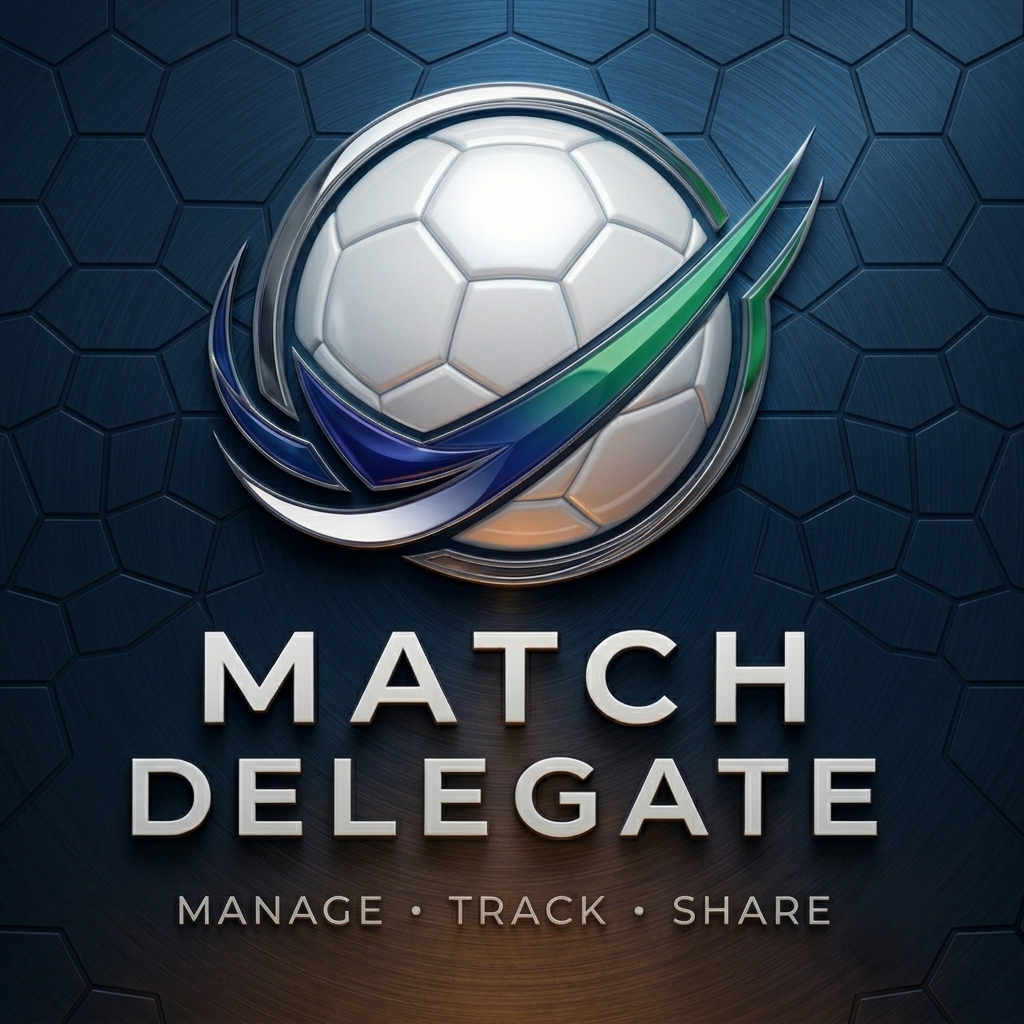
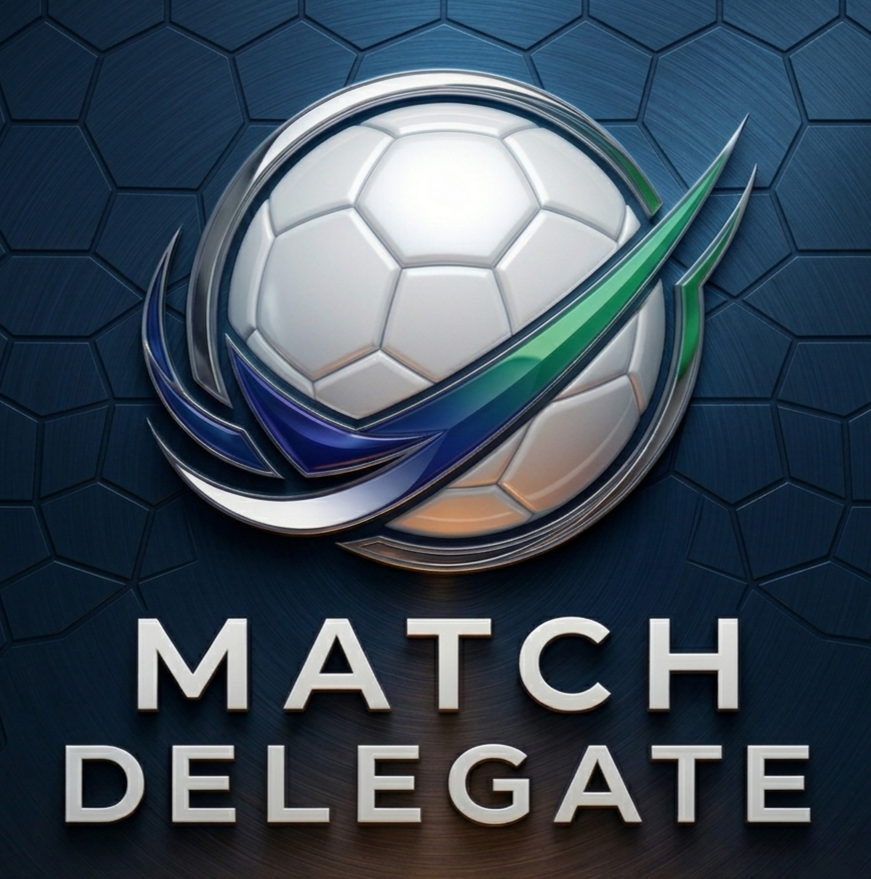
SVG iconen volledig: edit, motm, keeper + alle resterende emoji vervangen
- Nieuw IC.edit (pen), IC.motm (ster), IC.keeper (keepershandschoen)
- Alle potlood-emoji vervangen door icI(IC.edit)
- Beker-emoji in UI vervangen door icI(IC.trophy)
- Bal-emoji in lege staten vervangen door IC.ball
- Klembord-emoji vervangen door IC.clipboard
- Staafgrafiek-emoji vervangen door IC.chart
- Ster-emoji in UI vervangen door icI(IC.motm)
- Handschoen-emoji vervangen door icI(IC.keeper)
- MD.png (logo) bijgewerkt

diff --git a/index.html b/index.html
@@ -413,6 +413,9 @@ const IC = {
   balance: _svg('<path d="M12 4v17M4 6h16"/><path d="M6 6l-3 7h6l-3-7"/><path d="M18 6l-3 7h6l-3-7"/>'),
   compass: _svg('<circle cx="12" cy="12" r="9"/><path d="M12 4l3 8H9z" fill="currentColor" stroke="none"/><path d="M12 20l-3-8h6z" fill="currentColor" stroke="none" opacity=".4"/>'),
   clipboard: _svg('<path d="M9 2h6l1 3H8l1-3zM4 5h16a1 1 0 0 1 1 1v15a1 1 0 0 1-1 1H4a1 1 0 0 1-1-1V6a1 1 0 0 1 1-1z"/><path d="M8 11h8M8 15h5"/>'),
+  edit: _svg('<path d="M4 20l4-1L18.5 8.5a2.12 2.12 0 0 0-3-3L4 16z"/><path d="M15.5 5.5l3 3"/>'),
+  motm: _svg('<polygon points="12,2.5 14.9,9 22,9 16.4,13.5 18.7,20.5 12,16.5 5.3,20.5 7.6,13.5 2,9 9.1,9" fill="currentColor" stroke="none" opacity=".85"/>'),
+  keeper: _svg('<path d="M8 20.5V9a2 2 0 0 1 4 0v5"/><path d="M12 12.5a2 2 0 0 1 4 0v4"/><path d="M16 15.5a2 2 0 0 1 4 0v2a4.5 4.5 0 0 1-4.5 4.5H8.5A4.5 4.5 0 0 1 4 17.5v-2"/><path d="M4 15.5a2 2 0 0 1 4 0"/>'),
 };
 const icI = ic => `<span class="ic-i">${ic}</span>`;
 function tName(m) { return (m && m.teamName) || 'Sparta'; }
@@ -955,7 +958,7 @@ function updateCloudChip() {
   if (!cloudReady || !activeTeamId) { el.style.display = 'none'; return; }
   el.style.display = '';
   const badge = (isOwner && pendingAdminCount > 0) ? `<span class="req-badge">${pendingAdminCount}</span>` : '';
-  el.innerHTML = (isAdmin ? '✏️ Beheer' : '👁 Kijken') + badge;
+  el.innerHTML = (isAdmin ? `${icI(IC.edit)} Beheer` : '👁 Kijken') + badge;
   el.className = 'cloud-chip ' + (isAdmin ? 'admin' : 'viewer');
 }
 function cloudLoginModal() {
@@ -1107,7 +1110,7 @@ async function showMembersModal() {
       const naam = mi.name || '(naam nog niet gekend)';
       const email = mi.email || '(e-mail nog niet gekend)';
       const badge = role === 'admin'
-        ? '<span class="ts-role admin">✏️ Beheerder</span>'
+        ? `<span class="ts-role admin">${icI(IC.edit)} Beheerder</span>`
         : '<span class="ts-role viewer">👁 Kijker</span>';
       return `<div class="ts-team-row" style="cursor:default">
         <span class="ts-name"><b>${esc(naam)}</b><br><small style="color:var(--txt2)">${esc(email)}</small></span>
@@ -1217,7 +1220,7 @@ function renderTeamSelect() {
         const role = userTeams[id];
         return `<div class="ts-team-row" onclick="selectTeam('${id}')">
           <span class="ts-name" id="tsname-${id}">Ploeg laden...</span>
-          <span class="ts-role ${role}">${role === 'admin' ? '✏️ Beheerder' : '👁 Kijker'}</span>
+          <span class="ts-role ${role}">${role === 'admin' ? `${icI(IC.edit)} Beheerder` : '👁 Kijker'}</span>
         </div>`;
       }).join('')
     : `<div class="empty"><div class="ei">👥</div><p>Je hebt nog geen ploegen.<br>Maak er een aan of voer een uitnodigingscode in.</p></div>`;
@@ -1416,7 +1419,7 @@ function renderEventLog(m) {
     const score = g.cum ? `<span class="qgroup-score"><span class="us">${g.cum.us}</span>–${g.cum.them}</span>` : '';
     const elog_ro = !!(m.fromCloud && !isAdmin);
     const items = g.list.length
-      ? g.list.map(e => `<li><span class="emin">${gameMin(e.gameTimeMs)}'</span><span class="etxt">${evtLabel(e, m)}</span>${elog_ro ? '' : `<button class="evt-edit no-print" onclick="modalEditEvent('${e.id}')" title="Bewerken">✏️</button><button class="evt-del no-print" onclick="confirmDeleteEvent('${e.id}')" title="Verwijderen">×</button>`}</li>`).join('')
+      ? g.list.map(e => `<li><span class="emin">${gameMin(e.gameTimeMs)}'</span><span class="etxt">${evtLabel(e, m)}</span>${elog_ro ? '' : `<button class="evt-edit no-print" onclick="modalEditEvent('${e.id}')" title="Bewerken">${icI(IC.edit)}</button><button class="evt-del no-print" onclick="confirmDeleteEvent('${e.id}')" title="Verwijderen">×</button>`}</li>`).join('')
       : '<li class="qgroup-empty">Geen events in dit deel.</li>';
     return `<div class="qgroup"><div class="qgroup-head"><span>${head}</span>${score}</div><ul class="elog">${items}</ul></div>`;
   }).join('');
@@ -1631,7 +1634,7 @@ async function loadHome() {
         const team = teamById(t.teamId);
         return `<div class="match-item" onclick="goTournament('${t.id}')" style="border-left-color:var(--org)">
           <div class="mi-info">
-            <div class="mi-opp">🏆 ${esc(t.name)}</div>
+            <div class="mi-opp">${icI(IC.trophy)} ${esc(t.name)}</div>
             <div class="mi-date">${team ? '<b>'+esc(team.name)+'</b> · ' : ''}${t.date ? fmtDate(new Date(t.date+'T00:00:00').getTime()) : ''}${t.location ? ' · '+esc(t.location) : ''}</div>
             <span class="badge badge-plan">${icI(IC.calendar)} Gepland</span><span class="badge badge-type">Tornooi</span>
           </div>
@@ -1722,7 +1725,7 @@ async function loadStats() {
       <option value="all" ${seasonFilter==='all'?'selected':''}>Alle seizoenen</option>
       ${seasons.map(s => `<option value="${s}" ${seasonFilter===s?'selected':''}>Seizoen ${s}</option>`).join('')}
     </select></div>` : ''}`;
-  if (!list.length) { el.innerHTML = filterBar + `<div class="empty"><div class="ei">📊</div><p>Nog geen wedstrijden.</p></div>`; return; }
+  if (!list.length) { el.innerHTML = filterBar + `<div class="empty"><div class="ei">${IC.chart}</div><p>Nog geen wedstrijden.</p></div>`; return; }
   let w = 0, d = 0, l = 0, gf = 0, ga = 0, cleanSheets = 0;
   const pl = {};
   const getp = (name, num) => { const k = (name || 'Speler').trim(); return pl[k] || (pl[k] = { name: k, number: num || '', goals: 0, assists: 0, ms: 0, yc: 0, rc: 0, mp: 0, cs: 0, squad: 0, absent: 0, lines: {} }); };
@@ -2208,7 +2211,7 @@ function renderTeamEdit() {
     <div class="card">${editingTeam.players.length ? colHead : ''}<div id="t-rows">${rows || '<p style="color:var(--txt2);font-size:13px;text-align:center;padding:6px 0">Nog geen spelers.</p>'}</div>
       <div style="display:grid;grid-template-columns:1fr 1fr;gap:8px;margin-top:8px">
         <button class="btn btn-pale btn-sm" onclick="teamAddPlayer()">+ Speler</button>
-        <button class="btn btn-pale btn-sm" onclick="teamPasteModal()">📋 Lijst plakken</button>
+        <button class="btn btn-pale btn-sm" onclick="teamPasteModal()">${icI(IC.clipboard)} Lijst plakken</button>
       </div></div>
     <button class="btn btn-green" onclick="saveTeamEdit()">✓ ${cloudReady ? 'Spelers opslaan' : 'Ploeg opslaan'}</button>
     ${(editingTeam.isNew || cloudReady) ? '' : `<div class="danger"><button class="btn btn-red" onclick="deleteTeamConfirm()">🗑 Ploeg verwijderen</button></div>`}
@@ -2224,7 +2227,7 @@ function teamSortPlayers(by) {
   render();
 }
 function teamPasteModal() {
-  openModal(`<h3>📋 Spelerslijst plakken</h3>
+  openModal(`<h3>${icI(IC.clipboard)} Spelerslijst plakken</h3>
     <p style="color:var(--txt2);font-size:13px;margin-bottom:10px">Eén speler per regel. Een rugnummer vooraan mag (bv. "10 Jan Peeters"). De rest wordt voornaam + familienaam.</p>
     <div class="fg"><textarea id="paste-area" rows="8" placeholder="1 Tom Janssens\n7 Lars De Smet\nNoah Maes"></textarea></div>
     <button class="btn btn-green" onclick="teamPasteApply()">＋ Toevoegen</button>
@@ -2301,8 +2304,8 @@ function renderTournament() {
   const t = currentTournament;
   if (!t) return '<div class="content"><p>Niet gevonden.</p></div>';
   setTimeout(loadTournamentDetail, 0);
-  const editBtn = canManage() ? `<button class="hdr-btn" onclick="editTournament('${t.id}')">✏️</button>` : '';
-  return `<div class="hdr"><button class="back" onclick="go('tournaments')">‹</button><h1>🏆 ${esc(t.name)}</h1>${editBtn}</div>
+  const editBtn = canManage() ? `<button class="hdr-btn" onclick="editTournament('${t.id}')">${icI(IC.edit)}</button>` : '';
+  return `<div class="hdr"><button class="back" onclick="go('tournaments')">‹</button><h1>${icI(IC.trophy)} ${esc(t.name)}</h1>${editBtn}</div>
   <div class="content" id="trn-content"><div class="empty"><div class="ei">⏳</div><p>Laden...</p></div></div>`;
 }
 
@@ -2342,7 +2345,7 @@ async function loadTournamentDetail() {
   const newMatchBtn = (canManage() && !noSquad) ? `<button class="btn btn-green" style="margin-bottom:12px" onclick="addTournamentMatch('${t.id}')">${icI(IC.ball)} + Wedstrijd toevoegen</button>` : '';
   const matchList = matches.length
     ? matches.map(matchItemHtml).join('')
-    : `<div class="empty" style="padding:20px 0"><div class="ei" style="font-size:36px">⚽</div><p>Nog geen wedstrijden.${canManage() && !noSquad ? ' Voeg er een toe!' : ''}</p></div>`;
+    : `<div class="empty" style="padding:20px 0"><div class="ei" style="font-size:36px">${IC.ball}</div><p>Nog geen wedstrijden.${canManage() && !noSquad ? ' Voeg er een toe!' : ''}</p></div>`;
   el.innerHTML = `
     <div class="card">${infoRows}${squadRow}</div>
     ${squadWarning}
@@ -2542,7 +2545,7 @@ function addTournamentMatch(trnId) {
   if (!totalSquad) {
     openModal(`<h3>Selectie ontbreekt</h3>
       <p style="text-align:center;color:var(--txt2);margin-bottom:16px">Geef eerst een selectie in voor dit tornooi voor je wedstrijden toevoegt.</p>
-      <button class="btn btn-green" onclick="closeModal();editTournament('${trnId}')">✏️ Selectie ingeven</button>
+      <button class="btn btn-green" onclick="closeModal();editTournament('${trnId}')">${icI(IC.edit)} Selectie ingeven</button>
       <button class="btn btn-gray" style="margin-top:8px" onclick="closeModal()">Annuleren</button>`);
     return;
   }
@@ -2990,7 +2993,7 @@ function renderPrep() {
   <div class="content">
     ${ro ? '<div class="viewer-banner">👁 Je kijkt mee — deze wedstrijd is gepland</div>' : `${(!m.players || !m.players.length) ? '<div class="viewer-banner" style="background:var(--org-pale,#fff3e0);color:#b45309;border-color:#fbbf24">⚠ Selectie nog niet ingegeven — vul de spelers in voor je de wedstrijd start.</div>' : ''}<button class="btn btn-green" onclick="startPlanned()">▶ Wedstrijd starten</button>
     <div class="wiz-nav" style="margin-top:8px">
-      <button class="btn btn-pale" onclick="editMatchWizard(match)">✏️ Bewerken</button>
+      <button class="btn btn-pale" onclick="editMatchWizard(match)">${icI(IC.edit)} Bewerken</button>
       <button class="btn btn-orgpale" onclick="${(!m.players || !m.players.length) ? 'startSelectieWizard()' : 'modalEditPlayers()'}">👤 Selectie &amp; opstelling</button>
     </div>
     <button class="btn btn-gray" style="margin-top:8px" onclick="modalQuickResult()">⚡ Snel resultaat invoeren</button>`}
@@ -3096,7 +3099,7 @@ function modalEditPlayers() {
     </div>
     <input type="text" value="${esc(p.note||'')}" placeholder="Notitie over deze speler (optioneel)" onchange="match.players[${i}].note=this.value" style="width:100%;padding:9px;border:2px solid var(--bdr);border-radius:8px;font-size:14px;margin-bottom:6px">
     <div style="margin:0 0 14px"><span class="start-chip ${match.captainId===p.id?'on':''}" onclick="setCaptain('${p.id}')">© Kapitein</span></div>`).join('');
-  openModal(`<h3>✏️ Spelers bewerken</h3>
+  openModal(`<h3>${icI(IC.edit)} Spelers bewerken</h3>
     <div id="edit-rows">${rows}</div>
     <button class="btn btn-pale" onclick="addPlayerToMatch()" style="margin-top:6px">+ Speler toevoegen</button>
     <button class="btn btn-green" style="margin-top:12px" onclick="saveEditPlayers()">✓ Opslaan</button>
@@ -3191,7 +3194,7 @@ function renderLive() {
         <div class="evtbtn ${dis}" onclick="modalExtra()"><span class="ei">${IC.more}</span><span class="el">Meer</span></div>
       </div>`}
       ${(canEvent && hasUndo()) ? `<button class="btn btn-orgpale" onclick="undoLast()">↩ Laatste actie ongedaan maken</button>` : ''}
-      ${isDone ? `<button class="btn btn-pale" onclick="go('detail','${match.id}')">📊 Wedstrijd bekijken</button>` : ''}`;
+      ${isDone ? `<button class="btn btn-pale" onclick="go('detail','${match.id}')">${icI(IC.chart)} Wedstrijd bekijken</button>` : ''}`;
   } else if (tab === 'opstelling') {
     const on = playersOnField(match), off = playersOnBench(match), mins = calcMinutes(match);
     tabContent = `
@@ -3205,8 +3208,8 @@ function renderLive() {
   } else {
     tabContent = miniScore + (match.events.length
       ? `<div class="card">${renderEventLog(match)}</div>`
-      : `<div class="empty"><div class="ei">📋</div><p>Nog geen events.</p></div>`)
-      + (ro ? '' : `<button class="btn btn-pale" style="margin-top:4px" onclick="modalEditMatchInfo()">📋 Wedstrijdinfo bewerken</button>`);
+      : `<div class="empty"><div class="ei">${IC.clipboard}</div><p>Nog geen events.</p></div>`)
+      + (ro ? '' : `<button class="btn btn-pale" style="margin-top:4px" onclick="modalEditMatchInfo()">${icI(IC.clipboard)} Wedstrijdinfo bewerken</button>`);
   }
 
   return `
@@ -3226,7 +3229,7 @@ function playerRowHtml(p, minsData, isOff=false, totalMs=0) {
   const ms = minsData ? minsData.ms : 0;
   const m = Math.floor(ms / 60000);
   const cap = (match && match.captainId === p.id) ? ' <b style="color:var(--org)">©</b>' : '';
-  const motm = (match && match.motmId === p.id) ? ' ⭐' : '';
+  const motm = (match && match.motmId === p.id) ? ` ${icI(IC.motm)}` : '';
   const pct = totalMs > 0 ? Math.round(ms / totalMs * 100) : null;
   const low = pct !== null && pct < 50;
   const bar = pct !== null ? `<div class="fairbar ${low?'low':''}" style="max-width:120px"><span style="width:${Math.min(100,pct)}%"></span></div>` : '';
@@ -3344,7 +3347,7 @@ function modalEditMatchInfo() {
       <div class="fg"><label>Duur per deel</label>
         <select id="ei-qd">${(DURATIONS[match.periodKey]||[15]).map(v=>`<option value="${v}" ${v===match.quarterDuration?'selected':''}>${v} min</option>`).join('')}</select></div>
     </div>` : '';
-  openModal(`<h3>✏️ Wedstrijdinfo bewerken</h3>
+  openModal(`<h3>${icI(IC.edit)} Wedstrijdinfo bewerken</h3>
     <input type="hidden" id="ei-loc" value="${esc(match.location||'')}">
     <div class="fg"><label>Tegenstander</label><input id="ei-opp" type="text" value="${esc(match.opponent||'')}" placeholder="Naam ploeg" autocomplete="off"></div>
     <div style="display:grid;grid-template-columns:1fr 1fr;gap:10px">
@@ -3407,7 +3410,7 @@ async function saveNotes() {
   await dbSave(match); closeModal(); render();
 }
 function modalMotm() {
-  openModal(`<h3>⭐ Man van de match</h3>
+  openModal(`<h3>${icI(IC.motm)} Man van de match</h3>
     ${match.players.map(p => `<div class="mopt ${match.motmId===p.id?'sel':''}" onclick="setMotm('${p.id}')"><div class="mopt-num">${p.number||'?'}</div>${esc(p.name)}</div>`).join('')}
     <div class="mopt mopt-skip" onclick="setMotm(null)">Geen / wissen</div>
     <button class="btn btn-gray" style="margin-top:12px" onclick="closeModal()">Sluiten</button>`);
@@ -3492,7 +3495,7 @@ function modalEditEvent(id) {
   else if (t === 'injury') fields = `<div class="fg"><label>Speler</label><select id="ee-player">${opts(e.playerId)}</select></div><div class="fg"><label>Type</label><select id="ee-itype"><option value="kramp" ${e.injuryType === 'kramp' ? 'selected' : ''}>Kramp</option><option value="licht" ${e.injuryType === 'licht' ? 'selected' : ''}>Licht</option><option value="ernstig" ${e.injuryType === 'ernstig' ? 'selected' : ''}>Ernstig</option></select></div><div class="chkrow"><input type="checkbox" id="ee-leaves" ${e.leavesField ? 'checked' : ''}> Verlaat het veld</div>`;
   else if (t === 'shot_us' || t === 'shot_them') fields = `<div class="chkrow"><input type="checkbox" id="ee-ontarget" ${e.onTarget ? 'checked' : ''}> Op doel</div>`;
   else if (t === 'disallowed_us' || t === 'disallowed_them') fields = `<div class="fg"><label>Reden</label><input id="ee-reason" type="text" value="${esc(e.reason || '')}" placeholder="bv. buitenspel"></div>`;
-  openModal(`<h3>✏️ Event bewerken</h3>
+  openModal(`<h3>${icI(IC.edit)} Event bewerken</h3>
     <p style="text-align:center;color:var(--txt2);font-size:13px;margin-bottom:12px">${evtLabel(e, match)}</p>
     <div class="fg"><label>Minuut</label><input id="ee-min" type="number" value="${minute}" inputmode="numeric"></div>
     ${fields}
@@ -3832,12 +3835,12 @@ function renderDetail() {
     <div class="sec">Wedstrijdinfo</div>
     <div class="card">
       ${[['Formatie',match.formation],['Trainer',match.trainer],['Ploegverantwoordelijke',match.responsible],['Soort',match.competition],['Speeldag',match.matchday],['Scheidsrechter',match.referee],['Truikleur',match.jersey],['Weer / veld',match.weather],['Kapitein',match.captainId?pName(match,match.captainId):'']].filter(([k,v])=>v).map(([k,v])=>`<div class="stat-row"><span style="color:var(--txt2);min-width:120px">${k}</span><span style="font-weight:600">${esc(v)}</span></div>`).join('') || '<p style="color:var(--txt2);font-size:14px">Geen extra info ingevuld.</p>'}
-      <div class="stat-row"><span style="color:var(--txt2);min-width:120px">⭐ Man v/d match</span><span style="font-weight:600">${match.motmId?esc(pName(match,match.motmId)):'—'}</span>${ro?'':`<button class="btn btn-pale btn-sm no-print" style="margin-left:auto;width:auto" onclick="modalMotm()">Kiezen</button>`}</div>
+      <div class="stat-row"><span style="color:var(--txt2);min-width:120px">${icI(IC.motm)} Man v/d match</span><span style="font-weight:600">${match.motmId?esc(pName(match,match.motmId)):'—'}</span>${ro?'':`<button class="btn btn-pale btn-sm no-print" style="margin-left:auto;width:auto" onclick="modalMotm()">Kiezen</button>`}</div>
     </div>
     <div class="sec">Notities</div>
     <div class="card">
       <p class="notes-txt" style="${match.notes?'':'color:var(--txt2)'}">${match.notes?esc(match.notes):'Geen notities.'}</p>
-      ${ro?'':`<button class="btn btn-pale btn-sm no-print" style="margin-top:10px" onclick="modalNotes()">✏️ Bewerken</button>`}
+      ${ro?'':`<button class="btn btn-pale btn-sm no-print" style="margin-top:10px" onclick="modalNotes()">${icI(IC.edit)} Bewerken</button>`}
     </div>
     <div class="sec">Opstelling</div>
     <div class="card">${renderPitch(match, match.players.filter(p=>p.starting))}</div>
@@ -3846,7 +3849,7 @@ function renderDetail() {
       const km = keeperMinutes(match);
       const perQ = match.quarters.map(q => { const kid = match.keeperByQ[q.num]; return `<div class="stat-row"><span style="min-width:40px;font-weight:800">${pAbbr(match)}${q.num}</span><span style="flex:1">${kid?esc(pName(match,kid)):'—'}</span></div>`; }).join('');
       const totals = Object.entries(km).map(([id,ms]) => `<div class="stat-row"><span style="flex:1">${esc(pName(match,id))}</span><span style="font-weight:800">${Math.round(ms/60000)}' in doel</span></div>`).join('');
-      return `<div class="sec">🧤 Keeper per ${pSingLow(match)}</div><div class="card">${perQ}${totals?`<hr>${totals}`:''}</div>`;
+      return `<div class="sec">${icI(IC.keeper)} Keeper per ${pSingLow(match)}</div><div class="card">${perQ}${totals?`<hr>${totals}`:''}</div>`;
     })() : ''}
     <div class="sec">Speelminuten <span style="font-weight:400;text-transform:none;color:var(--txt2)">(balk = % van de speeltijd · rood < 50%)</span></div>
     <div class="card">${match.players.map(p => playerRowHtml(p, mins[p.id], !p.onField, getGameTimeMs(match))).join('')}</div>
@@ -3854,8 +3857,8 @@ function renderDetail() {
     <div class="card">${renderEventLog(match)}</div>
     ${(match.fromCloud && !isAdmin) ? '' : `<div class="no-print">
       <div style="display:grid;grid-template-columns:1fr 1fr;gap:8px;margin-bottom:8px">
-        <button class="btn btn-orgpale" onclick="modalEditPlayers()">✏️ Spelers bewerken</button>
-        <button class="btn btn-pale" onclick="modalEditMatchInfo()">📋 Info bewerken</button>
+        <button class="btn btn-orgpale" onclick="modalEditPlayers()">${icI(IC.edit)} Spelers bewerken</button>
+        <button class="btn btn-pale" onclick="modalEditMatchInfo()">${icI(IC.clipboard)} Info bewerken</button>
       </div>
       <div class="danger"><button class="btn btn-red" onclick="confirmDelete()">🗑 Wedstrijd verwijderen</button></div>
     </div>`}
@@ -3928,7 +3931,7 @@ function exportPDF() {
       ${infoBits.length?`<div class="sub">${infoBits.map(esc).join(' · ')}</div>`:''}</div>
     </div>
     <div class="score"><span class="us">${m.scoreUs}</span> – ${m.scoreThem}</div>
-    ${m.motmId?`<p style="text-align:center;font-weight:700;margin:-8px 0 10px">⭐ Man van de match: ${esc(pName(m,m.motmId))}</p>`:''}
+    ${m.motmId?`<p style="text-align:center;font-weight:700;margin:-8px 0 10px">${icI(IC.motm)} Man van de match: ${esc(pName(m,m.motmId))}</p>`:''}
     ${m.players.some(p=>p.starting)?`<h2>Basisopstelling${m.formation?` · ${esc(m.formation)}`:''}</h2>
     <div style="text-align:center;margin:10px 0">${pitchSVG(m, m.players.filter(p=>p.starting))}</div>
     <p style="text-align:center;color:#9ca3af;font-size:11px;margin-top:-4px">🟠 doelman · cijfer = rugnummer · © kapitein</p>`:''}